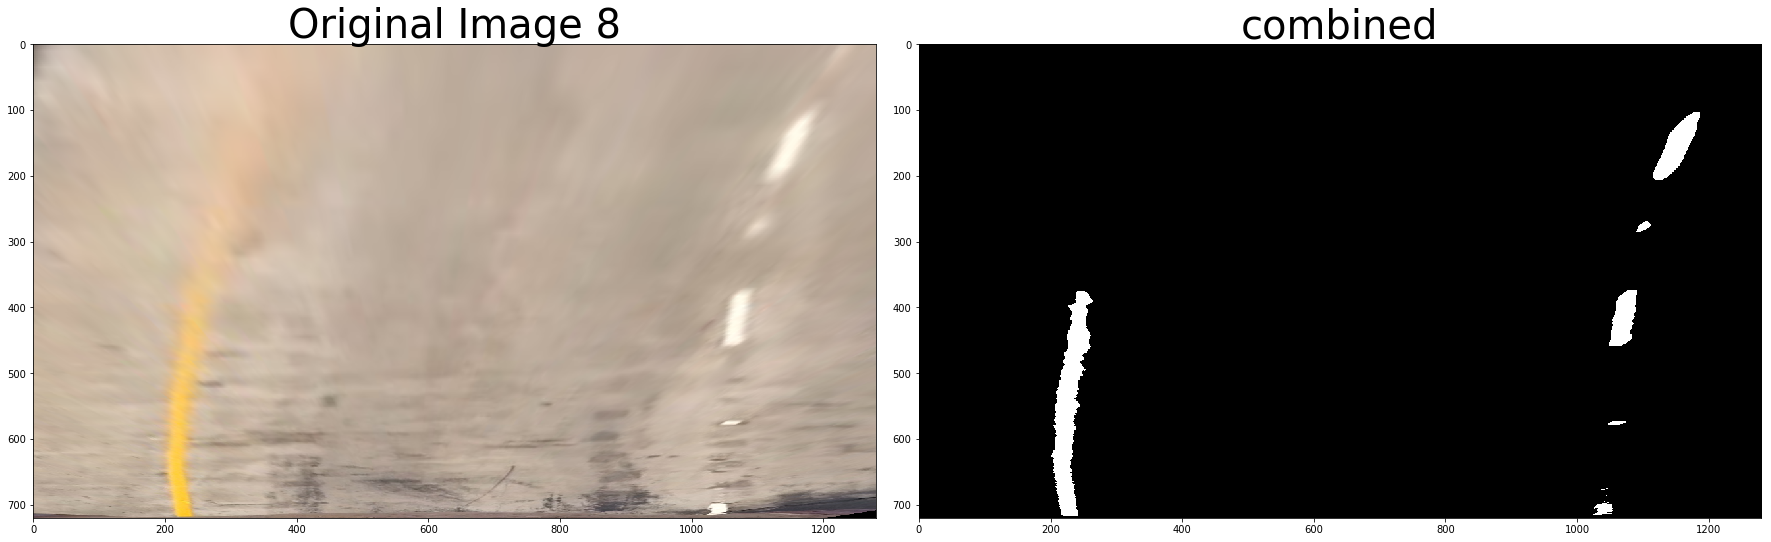
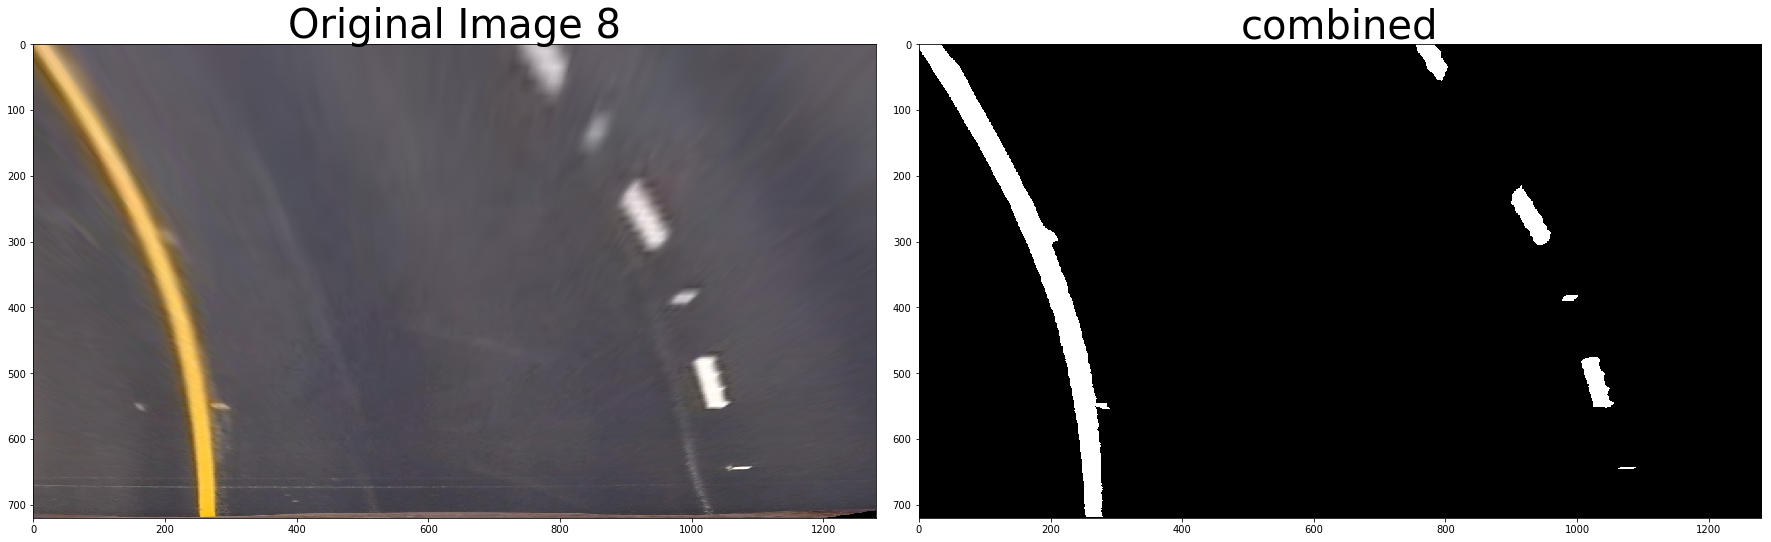
Update writeup.md

diff --git a/P4/writeup.md b/P4/writeup.md
@@ -63,7 +63,21 @@ To demonstrate this step, I will describe how I apply the distortion correction 
 
 #### 2.  Describe how (and identify where in your code) you used color transforms, gradients or other methods to create a thresholded binary image.  Provide an example of a binary image result.
 
-I used a combination of S channel in HLS color space and L channel in LUV color space to generate a binary image. In the 8th code section, method handleGradient. Here's an example of my output for this step. 
+I use `cv2.inRange(HSV, (0, 60, 150), (60, 255, 255))` to detect yellow, the following code to detect white.
+
+```python
+ # For white
+    sensitivity_1 = 68
+    white = cv2.inRange(HSV, (0,0,255-sensitivity_1), (255,20,255))
+
+    sensitivity_2 = 40
+    HSL = cv2.cvtColor(img, cv2.COLOR_RGB2HLS)
+    white_2 = cv2.inRange(HSL, (0,255-sensitivity_2,0), (255,255,sensitivity_2))
+    white_3 = cv2.inRange(img, (200,200,200), (255,255,255))
+
+```
+
+Then combine them together along with S challen in HLS, L channel in LUV. The following is the picture example:
 
 ![Gradient Image][gradient]
 
@@ -109,7 +123,8 @@ In the 10th code section, I have a method called `find_lines` using polynomial t
 I use the following code to calculate the curvature. It is in `calcCurvature` function in AdLan.ipynb 11st code section. 
 
 ```python
-
+    y_eval = (200 // 2) * ym_per_pix # max plot / 2 then convert to meters
+    arr_curverad = ((1 + (2*arr_fit[0]*y_eval + arr_fit[1])**2)**1.5) / np.absolute(2*arr_fit[0])
 ```
 ![Curv][curv]
 
